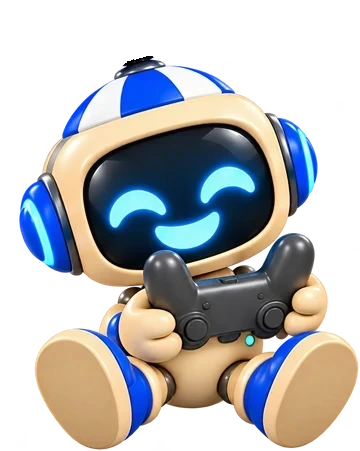
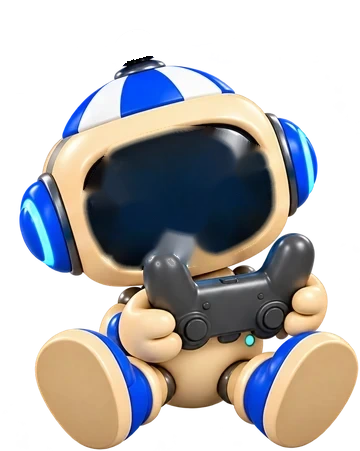
IAmiguinho: rosto vivo atrás do controle (a luz antiga sumia só pela metade)
Claude-Session: https://claude.ai/code/session_01EzS9DxgjdBzP7RojM8YLwB

Changed region(s): [[0.2139, 0.2794, 0.7944, 0.6208]]

diff --git a/src/components/IAmiguinho.tsx b/src/components/IAmiguinho.tsx
@@ -10,7 +10,7 @@ import { createPortal } from 'react-dom';
 import { useStore } from '../data/store';
 import { CARA, CUTUCAR, POSE, TONTO, epocaAtual, falaDaBiblioteca, liberarCameo, pedirCameo, sortear, type Cameo, type Epoca, type Fatos, type Interface } from '../lib/iamiguinho';
 import { HELICE } from '../lib/iamiguinhoHelice';
-import { PLACA, TELA } from '../lib/iamiguinhoTela';
+import { MASCARA, PLACA, TELA } from '../lib/iamiguinhoTela';
 import { arrumarPlaca, dePassagem, expressaoDe, rosto, type Expressao } from '../lib/iamiguinhoRosto';
 import { PLACA_EPOCA, PLACA_MOMENTO } from '../lib/iamiguinhoFalas';
 
@@ -83,10 +83,16 @@ export function Figura({ img, className = '', width, height, parada = false, enf
       <img className="iam-fig__corpo" src={`/brand/iamiguinho/anim/${src}-corpo.webp`} {...imgProps} />
       <img className="iam-fig__helice" src={`/brand/iamiguinho/anim/${src}-helice.webp`} {...imgProps}
         style={{ transformOrigin: `${h.x}% ${h.y}%`, '--iam-a': `${h.a}deg` } as CSSProperties} />
-      {t && (
-        <svg key={face} className="iam-rosto" viewBox="0 0 200 140" aria-hidden="true" dangerouslySetInnerHTML={{ __html: rosto(face, fid) }}
-          style={{ left: `${t.x}%`, top: `${t.y}%`, width: `${t.w}%`, transform: `translate(-50%, -50%) rotate(${t.a}deg)`, '--iam-atraso': atraso } as CSSProperties} />
-      )}
+      {t && (() => {
+        const svg = (
+          <svg key={face} className="iam-rosto" viewBox="0 0 200 140" aria-hidden="true" dangerouslySetInnerHTML={{ __html: rosto(face, fid) }}
+            style={{ left: `${t.x}%`, top: `${t.y}%`, width: `${t.w}%`, transform: `translate(-50%, -50%) rotate(${t.a}deg)`, '--iam-atraso': atraso } as CSSProperties} />
+        );
+        // Com um objeto na frente da tela (o controle), o rosto só aparece na parte visível do vidro.
+        if (!MASCARA[src]) return svg;
+        const m = `url(/brand/iamiguinho/anim/${src}-tela.webp)`;
+        return <span className="iam-rosto-caixa" style={{ maskImage: m, WebkitMaskImage: m } as CSSProperties}>{svg}</span>;
+      })()}
       {pl && arrumado && (
         <span className="iam-placa" aria-hidden="true"
           style={{ left: `${pl.x}%`, top: `${pl.y}%`, width: `${arrumado.deitado ? pl.w / pl.r : pl.w}%`, height: `${arrumado.deitado ? pl.h * pl.r : pl.h}%`, transform: `translate(-50%, -50%) rotate(${pl.a - (arrumado.deitado ? 90 : 0)}deg)`, '--fs': `${arrumado.fs}cqw` } as CSSProperties}>

diff --git a/src/lib/iamiguinhoTela.ts b/src/lib/iamiguinhoTela.ts
@@ -15,7 +15,7 @@ export const TELA: Record<string, { x: number; y: number; w: number; a: number }
   'pose-acenando': { x: 42.2, y: 35.71, w: 52.35, a: -8.7 },
   'pose-atrasado': { x: 59.73, y: 36.72, w: 42.87, a: 12.5 },
   'pose-cabo': { x: 47.38, y: 39.75, w: 43.85, a: -11.3 },
-  'pose-controle': { x: 49.65, y: 43.56, w: 52.35, a: -14.0 },
+  'pose-controle': { x: 49.72, y: 43.9, w: 55.56, a: 0.0 },
   'pose-dormindo': { x: 49.68, y: 43.3, w: 55.71, a: -7.1 },
   'pose-espiando': { x: 60.68, y: 42.22, w: 35.23, a: 23.2 },
   'pose-espiando-placa': { x: 60.68, y: 42.22, w: 35.23, a: 23.2 },
@@ -26,6 +26,8 @@ export const TELA: Record<string, { x: number; y: number; w: number; a: number }
   'pose-planando': { x: 47.49, y: 39.53, w: 41.81, a: 18.4 },
   'pose-trofeu': { x: 40.72, y: 36.63, w: 36.9, a: -26.6 },
 };
+/** Imagens em que um objeto fica na frente da tela: o rosto usa a máscara <nome>-tela.webp. */
+export const MASCARA: Record<string, true> = {'pose-controle': true};
 /** A área branca da placa (centro, largura e altura em %, proporção largura/altura em pixels, inclinação). */
 export const PLACA: Record<string, { x: number; y: number; w: number; h: number; r: number; a: number }> = {
   'pose-espiando': { x: 21.53, y: 52.65, w: 41.86, h: 92.84, r: 0.466, a: 0.3 },

diff --git a/src/styles/iamiguinho.css b/src/styles/iamiguinho.css
@@ -116,6 +116,7 @@ html[data-motion='reduzidas'] .iam-espia__pose, html[data-motion='reduzidas'] .i
 .ar-buddy .iam-fig { width: 40px; }
 .iam-espia__pose.iam-fig { animation: iam-espia 0.6s cubic-bezier(0.2, 0.8, 0.3, 1.2) both; }
 .iam-rosto { position: absolute; height: auto; aspect-ratio: 200 / 140; overflow: visible; pointer-events: none; animation: iam-liga 0.2s ease-out; }
+.iam-rosto-caixa { position: absolute; inset: 0; pointer-events: none; mask-size: 100% 100%; -webkit-mask-size: 100% 100%; mask-repeat: no-repeat; -webkit-mask-repeat: no-repeat; }
 .iam-rosto .iam-olhos { transform-box: fill-box; transform-origin: center; animation: iam-olhar 9s ease-in-out infinite; animation-delay: var(--iam-atraso, 0s); }
 .iam-rosto .iam-pensa circle { transform-box: fill-box; transform-origin: center; animation: iam-pensa 1.1s ease-in-out infinite; }
 .iam-rosto .iam-pensa circle:nth-child(2) { animation-delay: 0.15s; }

diff --git a/src/lib/iamiguinhoRosto.test.ts b/src/lib/iamiguinhoRosto.test.ts
@@ -51,3 +51,12 @@ test('placa: o texto cabe e a época tem texto', async () => {
   assert.equal(arrumarPlaca('Feliz Halloween!', 0.466).deitado, true);
   assert.equal(arrumarPlaca('Passei por aqui!', 0.466).deitado, false);
 });
+
+test('máscara do rosto: cada imagem com objeto na frente tem o arquivo da tela visível', async () => {
+  const { MASCARA, TELA } = await import('./iamiguinhoTela');
+  const { existsSync } = await import('node:fs');
+  for (const k of Object.keys(MASCARA)) {
+    assert.ok(TELA[k], k);
+    assert.ok(existsSync(new URL(`../../public/brand/iamiguinho/anim/${k}-tela.webp`, import.meta.url)), k);
+  }
+});

diff --git a/art/iamiguinho/limpar-tela.py b/art/iamiguinho/limpar-tela.py
@@ -11,6 +11,10 @@ ROOT = os.path.join(os.path.dirname(os.path.abspath(__file__)), '..', '..')
 src = out = os.path.join(ROOT, 'public', 'brand', 'iamiguinho', 'anim')
 names = sys.argv[1:] or None
 meta = {}
+# Imagens com um objeto escuro na frente da tela (o controle). O vidro é achado só pela parte azulada; o objeto não é
+# apagado, e sai uma máscara (-tela.webp) com a parte visível da tela, para o rosto em vetor ficar atrás do objeto.
+NA_FRENTE = {'pose-controle'}
+mascaras = set()
 placas = {}
 for path in sorted(glob.glob(os.path.join(src, '*-corpo.webp'))):
     name = os.path.basename(path)[:-len('-corpo.webp')]
@@ -27,6 +31,20 @@ for path in sorted(glob.glob(os.path.join(src, '*-corpo.webp'))):
     if n < 2: meta[name] = None; continue
     i = 1 + np.argmax(st[1:, cv2.CC_STAT_AREA])
     tela = (lab == i).astype(np.uint8)
+    objeto = None
+    if name in NA_FRENTE:
+        azul = ((a > 200) & (v < 70) & (h > 95) & (h < 135) & (s > 70)).astype(np.uint8) & tela
+        azul = cv2.morphologyEx(azul, cv2.MORPH_OPEN, np.ones((5, 5), np.uint8))
+        casco = np.zeros_like(tela); cv2.drawContours(casco, [cv2.convexHull(cv2.findNonZero(azul))], -1, 1, -1)
+        tela = cv2.dilate(casco, np.ones((17, 17), np.uint8)) & (a > 200).astype(np.uint8)
+        # O objeto: a maior mancha cinza (pouca cor) que encosta na metade de baixo da tela.
+        cinza = ((a > 200) & (s < 60) & (v < 150) & ~((h > 95) & (h < 135) & (s > 40))).astype(np.uint8)
+        k3, lab3, st3, _ = cv2.connectedComponentsWithStats(cinza, 8)
+        ys0, ys1 = np.nonzero(tela)[0].min(), np.nonzero(tela)[0].max()
+        meio = (ys0 + ys1) // 2
+        cand = [(st3[q, cv2.CC_STAT_AREA], q) for q in range(1, k3) if ((lab3 == q)[meio:ys1 + 1] & (tela[meio:ys1 + 1] == 1)).any()]
+        if cand:
+            objeto = cv2.dilate((lab3 == max(cand)[1]).astype(np.uint8), np.ones((3, 3), np.uint8))
     # Fecha os buracos (os olhos e a boca ficam dentro da tela).
     cnts, _ = cv2.findContours(tela, cv2.RETR_EXTERNAL, cv2.CHAIN_APPROX_SIMPLE)
     c = max(cnts, key=cv2.contourArea)
@@ -37,6 +55,12 @@ for path in sorted(glob.glob(os.path.join(src, '*-corpo.webp'))):
     luz &= ~reflexo
     luz = cv2.dilate(luz.astype(np.uint8), np.ones((5, 5), np.uint8), iterations=2)
     luz &= cv2.erode(cheia, np.ones((3, 3), np.uint8), iterations=2)
+    if objeto is not None:
+        luz &= (1 - objeto)
+        visivel = (cv2.dilate(cheia, np.ones((25, 25), np.uint8)) & (1 - objeto)) * 255
+        mimg = np.zeros((H, W, 4), np.uint8); mimg[:, :, 3] = visivel
+        Image.fromarray(mimg).save(os.path.join(out, name + '-tela.webp'), lossless=True)
+        mascaras.add(name)
     limpo = cv2.inpaint(rgb, luz, 7, cv2.INPAINT_TELEA)
     outim = im.copy(); outim[:, :, :3] = np.where(luz[:, :, None] == 1, limpo, rgb)
     Image.fromarray(outim).save(path, quality=92)
@@ -59,6 +83,7 @@ for path in sorted(glob.glob(os.path.join(src, '*-corpo.webp'))):
 ts = os.path.join(ROOT, 'src', 'lib', 'iamiguinhoTela.ts')
 linhas = [f"  '{k}': {{ x: {v['x']}, y: {v['y']}, w: {v['w']}, a: {v['a']} }}," for k, v in sorted(meta.items()) if v]
 open(ts, 'w').write('/** Gerado por art/iamiguinho/limpar-tela.py: a tela do rosto em cada imagem (centro e largura em %, inclinação em graus). */\nexport const TELA: Record<string, { x: number; y: number; w: number; a: number }> = {\n' + '\n'.join(linhas) + '\n};\n'
+    + '/** Imagens em que um objeto fica na frente da tela: o rosto usa a máscara <nome>-tela.webp. */\nexport const MASCARA: Record<string, true> = {' + ', '.join(f"'{k}': true" for k in sorted(mascaras)) + '};\n'
     + '/** A área branca da placa (centro, largura e altura em %, proporção largura/altura em pixels, inclinação). */\nexport const PLACA: Record<string, { x: number; y: number; w: number; h: number; r: number; a: number }> = {\n'
     + '\n'.join(f"  '{k}': {{ x: {v['x']}, y: {v['y']}, w: {v['w']}, h: {v['h']}, r: {v['r']}, a: {v['a']} }}," for k, v in sorted(placas.items())) + '\n};\n')
 print(len(linhas), 'telas')
